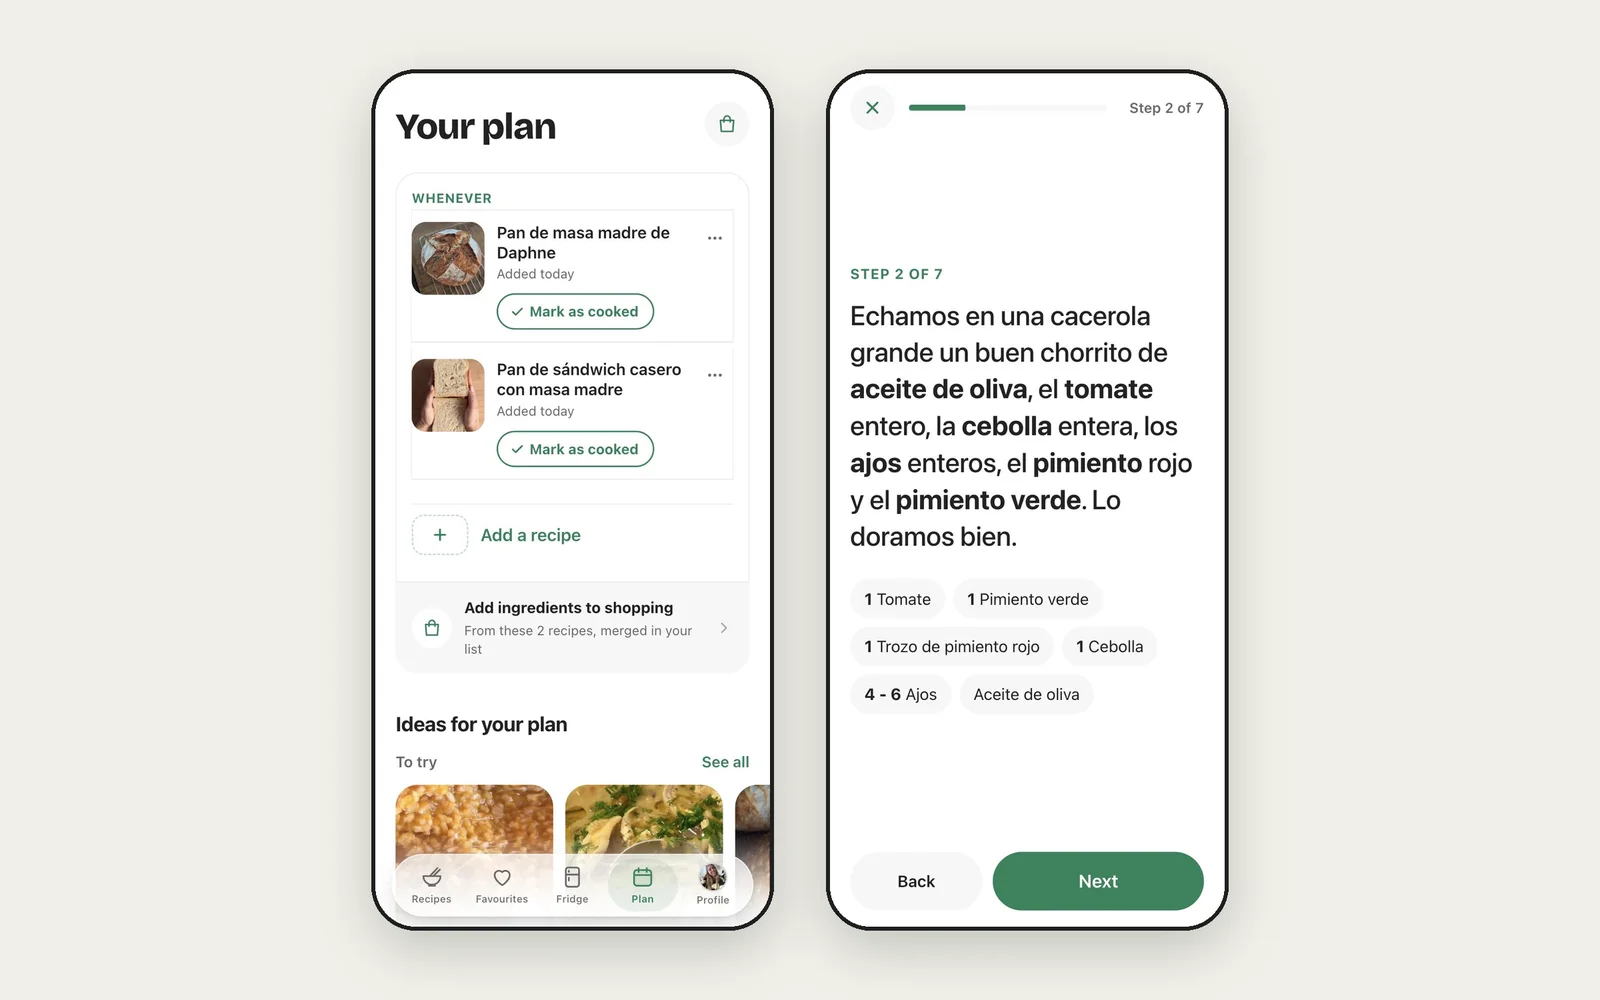
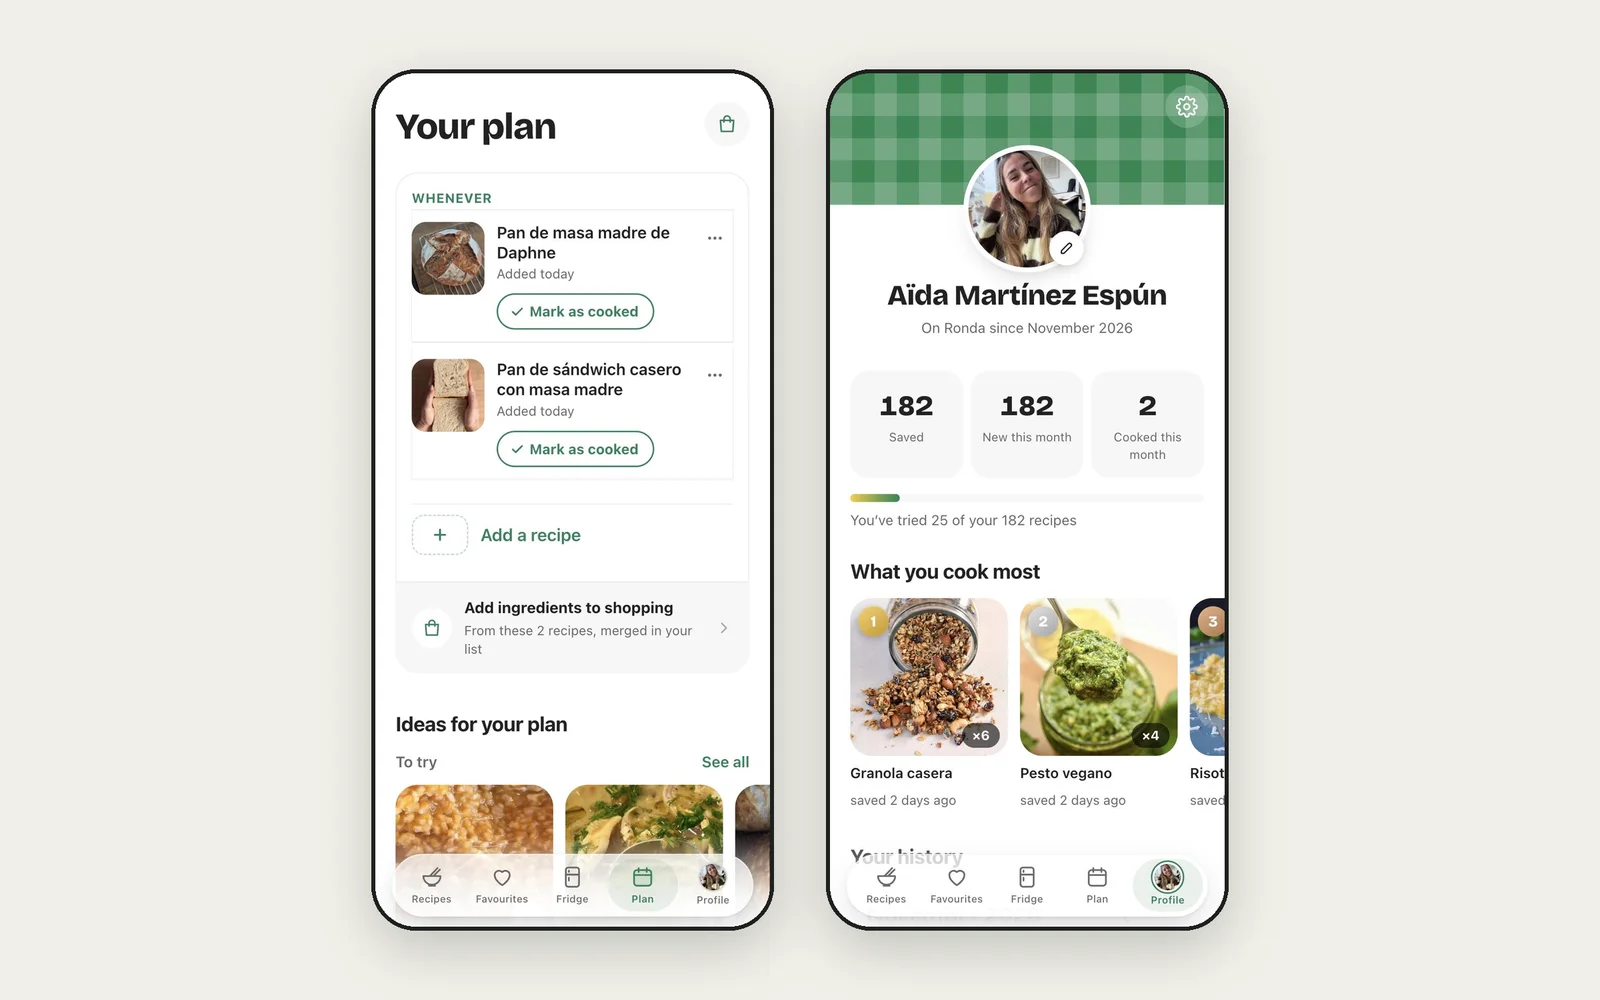
Ronda case study: product features, profile screen, AI toolkit and workflow
Claude-Session: https://claude.ai/code/session_01Quv4VpHUjhojSW38pWNX3M

Changed region(s): [[0.5, 0.062, 0.7812, 0.806], [0.5312, 0.837, 0.75, 0.93]]

diff --git a/studio/ronda/index.html b/studio/ronda/index.html
@@ -46,7 +46,7 @@
     <div class="kpis cs-kpis"><div class="kpi"><strong>110 / 295</strong>imported recipes auto-repaired</div><div class="kpi"><strong>89</strong>automated tests</div><div class="kpi"><strong>1</strong>designer, end to end</div></div>
   </section>
   <figure class="cs-cover" style="view-transition-name:cover-ronda"><img src="../../assets/ronda/cover-1600.webp" srcset="../../assets/ronda/cover-800.webp 800w, ../../assets/ronda/cover-1600.webp 1600w, ../../assets/ronda/cover-2400.webp 2400w" sizes="(max-width: 1500px) 100vw, 1440px" width="2400" height="1350" alt="Ronda on a laptop and an iPhone: a lentil stew recipe with its cook count, rating and ingredients" fetchpriority="high"></figure>
-  <nav class="cs-index" aria-label="In this case study"><p>In this case study</p><ol><li><a href="#context">Context and opportunity</a></li><li><a href="#strategy">Product strategy</a></li><li><a href="#decisions">Key product decisions</a></li><li><a href="#growth">Growth and retention levers</a></li><li><a href="#desktop">Mobile first, desktop as a real product</a></li><li><a href="#identity">Brand identity</a></li><li><a href="#ai">Designing and shipping with AI</a></li><li><a href="#next">What’s next</a></li></ol></nav>
+  <nav class="cs-index" aria-label="In this case study"><p>In this case study</p><ol><li><a href="#context">Context and opportunity</a></li><li><a href="#strategy">Product strategy</a></li><li><a href="#decisions">Key product decisions</a></li><li><a href="#growth">Growth and retention levers</a></li><li><a href="#features">What’s in the product</a></li><li><a href="#desktop">Mobile first, desktop as a real product</a></li><li><a href="#identity">Brand identity</a></li><li><a href="#ai">Designing and shipping with AI</a></li><li><a href="#next">What’s next</a></li></ol></nav>
   <article class="cs-body"><section class="cs-ch" id="context"><h2>Context and opportunity</h2><div class="cs-text">
 <p class="cs-statement">People save hundreds of recipes. They cook almost none of them.</p>
 <p>Saving has become effortless: a tap on Instagram or TikTok. Cooking from those saves hasn’t. Recipes end up scattered across bookmarks and screenshots, and social captions are written for engagement rather than for use: a story first, amounts in slang (“a pinch”, “un chorrito”), whole ingredient lists on a single line.</p>
@@ -59,7 +59,7 @@
 <li><b>Cook and log</b><span>A hands-free cooking mode; “I made it today” records each time a dish is cooked.</span></li>
 <li><b>Resurface</b><span>Cook counts and rhythm (“every 3 weeks”) bring favourites back before they’re forgotten.</span></li>
 </ul>
-<p>The metric that best captures value is <strong>recipes cooked per active user per week</strong>. Saves are a vanity metric here: a saved recipe that is never cooked is a failure of the product, not a success.</p></div><div class="cs-wide"><figure class="cs-fig"><img src="../../assets/ronda/screens-core-1600.webp" srcset="../../assets/ronda/screens-core-800.webp 800w, ../../assets/ronda/screens-core-1600.webp 1600w, ../../assets/ronda/screens-core-2400.webp 2400w" sizes="(max-width: 1500px) 100vw, 1440px" width="2400" height="1500" alt="Ronda on iPhone: the recipe library, a recipe with cook count and rating, and ingredients with bold quantities" loading="lazy" decoding="async"></figure></div></section><section class="cs-ch" id="decisions"><h2>Key product decisions</h2><div class="cs-text">
+<p>The metric that best captures value is <strong>recipes cooked per active user per week</strong>. Saves are a vanity metric here: a saved recipe that is never cooked is a failure of the product, not a success.</p></div><div class="cs-wide"><figure class="cs-fig"><img src="../../assets/ronda/screens-core-1600.webp" srcset="../../assets/ronda/screens-core-800.webp 800w, ../../assets/ronda/screens-core-1600.webp 1600w, ../../assets/ronda/screens-core-2400.webp 2400w" sizes="(max-width: 1500px) 100vw, 1440px" width="2400" height="1500" alt="Ronda on iPhone: the recipe library, a recipe with cook count and rating, and the step-by-step cooking mode" loading="lazy" decoding="async"></figure></div></section><section class="cs-ch" id="decisions"><h2>Key product decisions</h2><div class="cs-text">
 <h3>Information architecture led by frequency of use</h3>
 <p>I initially folded Favourites into Recipes as a filter, since that’s what it is in the data model. Mapping how often each moment happens reversed that call: cooking a known favourite is the most frequent task in the product, so it earned a permanent tab. The shopping list, used weekly, moved inside Plan with a badge for what’s left to buy. The navigation now mirrors usage, not the database: Recipes, Favourites, Fridge, Plan, Profile.</p>
 <h3>“Fridge”: start from what you have</h3>
@@ -67,14 +67,25 @@
 <h3>Activation depends on import quality</h3>
 <p>The first imported recipe is the activation moment. If it arrives broken, trust is lost before the user cooks anything. Every import now runs through a repair pipeline: stories and sign-offs move to notes, number words become digits, kitchen slang becomes real quantities in four languages, run-on lists are split and long methods become short steps. Run against a real collection, it <strong>repaired 110 of 295 recipes</strong>, with every change reviewable and reversible.</p>
 <h3>Designed for the kitchen</h3>
-<p>Quantities in bold and readable from a distance, servings that rescale every amount, ingredient icons for quick scanning, and a step-by-step cooking mode with timers and the ingredients each step needs.</p></div><div class="cs-wide"><figure class="cs-fig"><img src="../../assets/ronda/screens-fridge-1600.webp" srcset="../../assets/ronda/screens-fridge-800.webp 800w, ../../assets/ronda/screens-fridge-1600.webp 1600w, ../../assets/ronda/screens-fridge-2400.webp 2400w" sizes="(max-width: 1500px) 100vw, 1440px" width="2400" height="1500" alt="The Fridge tab: chosen ingredients, most-used ingredients with counts, and recipes that use everything selected" loading="lazy" decoding="async"></figure></div><div class="cs-wide"><figure class="cs-fig"><img src="../../assets/ronda/screens-plan-1600.webp" srcset="../../assets/ronda/screens-plan-800.webp 800w, ../../assets/ronda/screens-plan-1600.webp 1600w, ../../assets/ronda/screens-plan-2400.webp 2400w" sizes="(max-width: 1500px) 100vw, 1440px" width="2400" height="1500" alt="The weekly plan with the shopping list button, and the step-by-step cooking mode" loading="lazy" decoding="async"></figure></div></section><section class="cs-ch" id="growth"><h2>Growth and retention levers</h2><div class="cs-text">
+<p>Quantities in bold and readable from a distance, servings that rescale every amount, ingredient icons for quick scanning, and a step-by-step cooking mode with timers and the ingredients each step needs.</p></div><div class="cs-wide"><figure class="cs-fig"><img src="../../assets/ronda/screens-fridge-1600.webp" srcset="../../assets/ronda/screens-fridge-800.webp 800w, ../../assets/ronda/screens-fridge-1600.webp 1600w, ../../assets/ronda/screens-fridge-2400.webp 2400w" sizes="(max-width: 1500px) 100vw, 1440px" width="2400" height="1500" alt="The Fridge tab: chosen ingredients, most-used ingredients with counts, and recipes that use everything selected" loading="lazy" decoding="async"></figure></div></section><section class="cs-ch" id="growth"><h2>Growth and retention levers</h2><div class="cs-text">
 <ul class="cs-points">
 <li><b>No empty first run</b><span>New accounts start with example recipes already rated and cooked, so the value of logging is visible before users add anything.</span></li>
 <li><b>Re-engagement</b><span>A weekly planning reminder at a time each user chooses, morning or evening, plus a gentle “fancy something new?” nudge on the home screen.</span></li>
 <li><b>Built-in distribution</b><span>Every recipe can be shared as a link that opens without an account and invites the recipient to save it, turning sharing into acquisition.</span></li>
 <li><b>Low-friction access</b><span>A PWA: no app store, installs from the browser, works on iPhone, Android and desktop, in Spanish, English, Dutch and French.</span></li>
 </ul>
-<p>Ronda is in a closed beta with a small group of users. Next on the roadmap is instrumenting the funnel: <strong>activation</strong> (first imported recipe cooked), <strong>retention</strong> (weekly cooking) and <strong>referral</strong> (shared links that convert to accounts).</p></div></section><section class="cs-ch" id="desktop"><h2>Mobile first, desktop as a real product</h2><div class="cs-text">
+<p>Ronda is in a closed beta with a small group of users. Next on the roadmap is instrumenting the funnel: <strong>activation</strong> (first imported recipe cooked), <strong>retention</strong> (weekly cooking) and <strong>referral</strong> (shared links that convert to accounts).</p></div><div class="cs-wide"><figure class="cs-fig"><img src="../../assets/ronda/screens-plan-1600.webp" srcset="../../assets/ronda/screens-plan-800.webp 800w, ../../assets/ronda/screens-plan-1600.webp 1600w, ../../assets/ronda/screens-plan-2400.webp 2400w" sizes="(max-width: 1500px) 100vw, 1440px" width="2400" height="1500" alt="The weekly plan with the shopping list button, and the profile with cooking stats and the dishes cooked most" loading="lazy" decoding="async"></figure></div></section><section class="cs-ch" id="features"><h2>What’s in the product</h2><div class="cs-text">
+<p>A complete product rather than a prototype: every flow below is live and in daily use.</p>
+<ul class="cs-points">
+<li><b>Capture</b><span>Import from Instagram, TikTok, YouTube and recipe websites; scan a cookbook page from a photo; dictate; paste text; or write from scratch.</span></li>
+<li><b>Organise</b><span>Cookbooks with photo collages, tags, favourites, archive and a 30-day bin. Multi-select to move, tag or delete in bulk.</span></li>
+<li><b>Cook</b><span>Servings that rescale every quantity, ingredient icons, bold amounts, a step-by-step cooking mode with timers, ratings and a cooking log.</span></li>
+<li><b>Fridge</b><span>Find recipes by the ingredients you have, ranked by what’s missing, with a “quick” filter for 30 minutes or less.</span></li>
+<li><b>Plan and shop</b><span>A weekly plan with ideas to try and dishes due again; a shopping list merged across recipes and grouped by aisle, shareable with a link.</span></li>
+<li><b>Profile</b><span>Personal stats, what you cook most, a monthly cooking history and a customisable cover.</span></li>
+<li><b>Platform</b><span>Installable PWA, weekly push reminders, four languages with automatic translation of recipes, and a full desktop layout.</span></li>
+<li><b>Trust</b><span>Undo on destructive actions, every import repair reviewable, photos optimised for storage, data export.</span></li>
+</ul></div></section><section class="cs-ch" id="desktop"><h2>Mobile first, desktop as a real product</h2><div class="cs-text">
 <p>Planning happens on the sofa, cooking happens in the kitchen, often with a laptop on the counter. On larger screens the tab bar becomes a sidebar, recipes go two-column with the ingredients beside the method, and every touch gesture has a mouse and keyboard equivalent: hover actions instead of swipes, arrow keys in cooking mode, “/” to search.</p></div><div class="cs-wide"><figure class="cs-fig"><img src="../../assets/ronda/screens-desktop-1600.webp" srcset="../../assets/ronda/screens-desktop-800.webp 800w, ../../assets/ronda/screens-desktop-1600.webp 1600w, ../../assets/ronda/screens-desktop-2400.webp 2400w" sizes="(max-width: 1500px) 100vw, 1440px" width="2400" height="1500" alt="Ronda on desktop: sidebar navigation, recipe photo beside the title, ingredients beside the method" loading="lazy" decoding="async"></figure></div></section><section class="cs-ch" id="identity"><h2>Brand identity</h2><div class="cs-text">
 <p>The identity comes from the table: <strong>a green gingham tablecloth</strong> that carries from the app icon to the launch screen and the profile. The mark is a single lowercase <em>r</em> set in Syne, legible at 16 px. Literal food icons and hand-drawn letters were explored and rejected as generic or dated.</p></div><div class="cs-wide"><figure class="cs-fig"><img src="../../assets/ronda/identity-1600.webp" srcset="../../assets/ronda/identity-800.webp 800w, ../../assets/ronda/identity-1600.webp 1600w, ../../assets/ronda/identity-2400.webp 2400w" sizes="(max-width: 1500px) 100vw, 1440px" width="2400" height="1500" alt="Ronda app icon, launch screen and sign-in screen, all on the green gingham tablecloth" loading="lazy" decoding="async"></figure></div></section><section class="cs-ch" id="ai"><h2>Designing and shipping with AI</h2><div class="cs-text">
 <p>I owned Ronda end to end, from discovery and strategy to design and release, working with Claude as my engineering team. I set the direction, the product decisions and the quality bar; the AI implemented features, generated design options, wrote automated tests and reviewed flows against usability heuristics.</p>
@@ -83,7 +94,17 @@
 <li><b>Real use finds real issues</b><span>Testing on devices with real users surfaced what simulations miss, such as fixed bars drifting with the iOS keyboard open.</span></li>
 <li><b>Quality guardrails</b><span>89 automated tests cover parsing, scaling and imports, so every fix stays fixed.</span></li>
 <li><b>Shorter learning loops</b><span>Feedback in the morning, a fix in users’ hands by the evening. Iteration speed becomes a product advantage.</span></li>
-</ul></div></section><section class="cs-ch" id="next"><h2>What’s next</h2><div class="cs-text">
+</ul>
+<h3>The toolkit</h3>
+<p>I worked with Claude through <strong>skills</strong>: reusable instructions that turn a general model into a specialist for one kind of work. Each phase used the right one.</p>
+<ul>
+<li><strong>Discovery and UX:</strong> a UX design reviewer skill for heuristic critiques of flows and screens, and a UX copywriting skill for microcopy across four languages.</li>
+<li><strong>Brand:</strong> logo design and graphic design skills to explore concept routes, test the mark at small sizes and produce the icon set.</li>
+<li><strong>Interface:</strong> frontend design and UI quality skills for layout, typography and the responsive adaptation to desktop; mobile-native guidance for iOS PWA behaviour.</li>
+<li><strong>Engineering:</strong> Next.js and Vercel best-practice skills for the app architecture and deployment; Supabase for data, auth and storage.</li>
+<li><strong>QA:</strong> an in-app browser to test real screens at phone and desktop sizes, plus automated tests run before every release.</li>
+</ul>
+<p>The workflow stayed the same for every feature: <strong>brief, options, critique, build, test on device, ship</strong>, with continuous deployment so each change was live within minutes.</p></div></section><section class="cs-ch" id="next"><h2>What’s next</h2><div class="cs-text">
 <p>The next bet is <strong>shared cookbooks</strong>: send a whole cookbook as a link and let a friend save the recipes she wants. It extends the existing sharing loop into a stronger acquisition channel without the cost of building a social network. Alongside it, funnel analytics to validate the north-star metric before exploring monetisation.</p></div></section></article>
   <nav class="cs-foot" aria-label="More work">
     <a class="cs-next" href="../../studio/branding-concierge-luxury/"><span class="media"><img src="../../assets/img/1739098746554-KHGPYQ6666L33A0MCK2N-800.webp" srcset="../../assets/img/1739098746554-KHGPYQ6666L33A0MCK2N-800.webp 800w, ../../assets/img/1739098746554-KHGPYQ6666L33A0MCK2N-1600.webp 1600w, ../../assets/img/1739098746554-KHGPYQ6666L33A0MCK2N-2400.webp 2400w" sizes="(max-width: 900px) 100vw, 560px" width="2500" height="1667" alt="" loading="lazy" decoding="async"></span><span class="t"><small>Next studio project</small><b>Luxury Service Concierge</b><span class="more">Open <svg class="ic" viewBox="0 0 24 24" fill="none" stroke="currentColor" stroke-width="2" stroke-linecap="round" stroke-linejoin="round" aria-hidden="true"><path d="M5 12h14M13 6l6 6-6 6"/></svg></span></span></a>

diff --git a/_src/build.py b/_src/build.py
@@ -1121,6 +1121,18 @@ RONDA_CH = [
 <li><b>Low-friction access</b><span>A PWA: no app store, installs from the browser, works on iPhone, Android and desktop, in Spanish, English, Dutch and French.</span></li>
 </ul>
 <p>Ronda is in a closed beta with a small group of users. Next on the roadmap is instrumenting the funnel: <strong>activation</strong> (first imported recipe cooked), <strong>retention</strong> (weekly cooking) and <strong>referral</strong> (shared links that convert to accounts).</p>"""),
+    ('features', 'What’s in the product', """
+<p>A complete product rather than a prototype: every flow below is live and in daily use.</p>
+<ul class="cs-points">
+<li><b>Capture</b><span>Import from Instagram, TikTok, YouTube and recipe websites; scan a cookbook page from a photo; dictate; paste text; or write from scratch.</span></li>
+<li><b>Organise</b><span>Cookbooks with photo collages, tags, favourites, archive and a 30-day bin. Multi-select to move, tag or delete in bulk.</span></li>
+<li><b>Cook</b><span>Servings that rescale every quantity, ingredient icons, bold amounts, a step-by-step cooking mode with timers, ratings and a cooking log.</span></li>
+<li><b>Fridge</b><span>Find recipes by the ingredients you have, ranked by what’s missing, with a “quick” filter for 30 minutes or less.</span></li>
+<li><b>Plan and shop</b><span>A weekly plan with ideas to try and dishes due again; a shopping list merged across recipes and grouped by aisle, shareable with a link.</span></li>
+<li><b>Profile</b><span>Personal stats, what you cook most, a monthly cooking history and a customisable cover.</span></li>
+<li><b>Platform</b><span>Installable PWA, weekly push reminders, four languages with automatic translation of recipes, and a full desktop layout.</span></li>
+<li><b>Trust</b><span>Undo on destructive actions, every import repair reviewable, photos optimised for storage, data export.</span></li>
+</ul>"""),
     ('desktop', 'Mobile first, desktop as a real product', """
 <p>Planning happens on the sofa, cooking happens in the kitchen, often with a laptop on the counter. On larger screens the tab bar becomes a sidebar, recipes go two-column with the ingredients beside the method, and every touch gesture has a mouse and keyboard equivalent: hover actions instead of swipes, arrow keys in cooking mode, “/” to search.</p>"""),
     ('identity', 'Brand identity', """
@@ -1132,7 +1144,17 @@ RONDA_CH = [
 <li><b>Real use finds real issues</b><span>Testing on devices with real users surfaced what simulations miss, such as fixed bars drifting with the iOS keyboard open.</span></li>
 <li><b>Quality guardrails</b><span>89 automated tests cover parsing, scaling and imports, so every fix stays fixed.</span></li>
 <li><b>Shorter learning loops</b><span>Feedback in the morning, a fix in users’ hands by the evening. Iteration speed becomes a product advantage.</span></li>
-</ul>"""),
+</ul>
+<h3>The toolkit</h3>
+<p>I worked with Claude through <strong>skills</strong>: reusable instructions that turn a general model into a specialist for one kind of work. Each phase used the right one.</p>
+<ul>
+<li><strong>Discovery and UX:</strong> a UX design reviewer skill for heuristic critiques of flows and screens, and a UX copywriting skill for microcopy across four languages.</li>
+<li><strong>Brand:</strong> logo design and graphic design skills to explore concept routes, test the mark at small sizes and produce the icon set.</li>
+<li><strong>Interface:</strong> frontend design and UI quality skills for layout, typography and the responsive adaptation to desktop; mobile-native guidance for iOS PWA behaviour.</li>
+<li><strong>Engineering:</strong> Next.js and Vercel best-practice skills for the app architecture and deployment; Supabase for data, auth and storage.</li>
+<li><strong>QA:</strong> an in-app browser to test real screens at phone and desktop sizes, plus automated tests run before every release.</li>
+</ul>
+<p>The workflow stayed the same for every feature: <strong>brief, options, critique, build, test on device, ship</strong>, with continuous deployment so each change was live within minutes.</p>"""),
     ('next', 'What’s next', """
 <p>The next bet is <strong>shared cookbooks</strong>: send a whole cookbook as a link and let a friend save the recipes she wants. It extends the existing sharing loop into a stronger acquisition channel without the cost of building a social network. Alongside it, funnel analytics to validate the north-star metric before exploring monetisation.</p>"""),
 ]
@@ -1142,8 +1164,9 @@ def ronda_page(nxt):
     def fig(name, alt):
         return f'<div class="cs-wide"><figure class="cs-fig">{rimg(name, alt, 2400, 1500)}</figure></div>'
     figs = {
-        'strategy': fig('screens-core', 'Ronda on iPhone: the recipe library, a recipe with cook count and rating, and ingredients with bold quantities'),
-        'decisions': fig('screens-fridge', 'The Fridge tab: chosen ingredients, most-used ingredients with counts, and recipes that use everything selected') + fig('screens-plan', 'The weekly plan with the shopping list button, and the step-by-step cooking mode'),
+        'strategy': fig('screens-core', 'Ronda on iPhone: the recipe library, a recipe with cook count and rating, and the step-by-step cooking mode'),
+        'decisions': fig('screens-fridge', 'The Fridge tab: chosen ingredients, most-used ingredients with counts, and recipes that use everything selected'),
+        'growth': fig('screens-plan', 'The weekly plan with the shopping list button, and the profile with cooking stats and the dishes cooked most'),
         'desktop': fig('screens-desktop', 'Ronda on desktop: sidebar navigation, recipe photo beside the title, ingredients beside the method'),
         'identity': fig('identity', 'Ronda app icon, launch screen and sign-in screen, all on the green gingham tablecloth'),
     }
